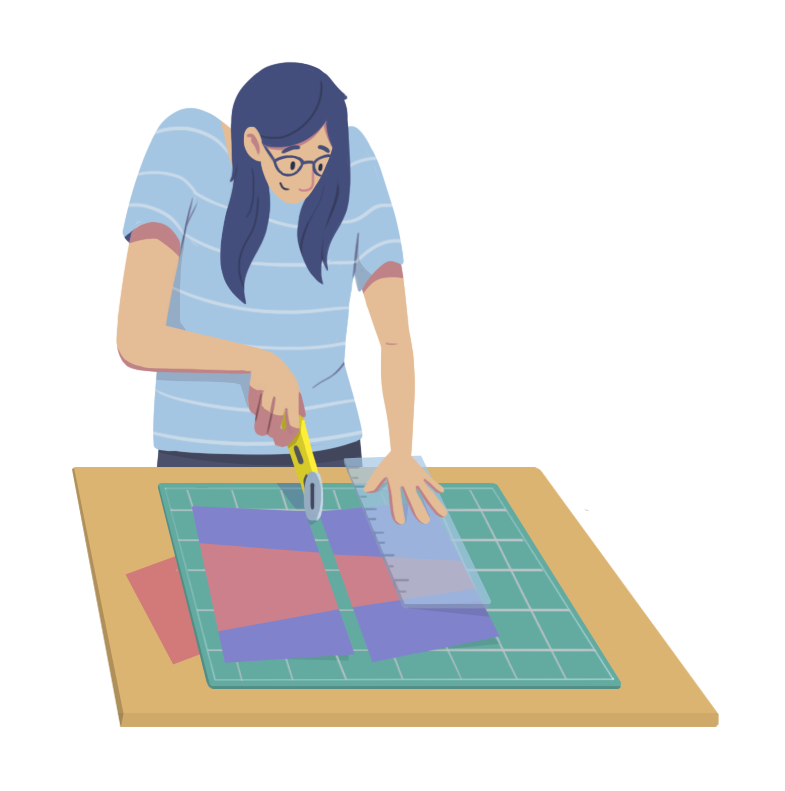
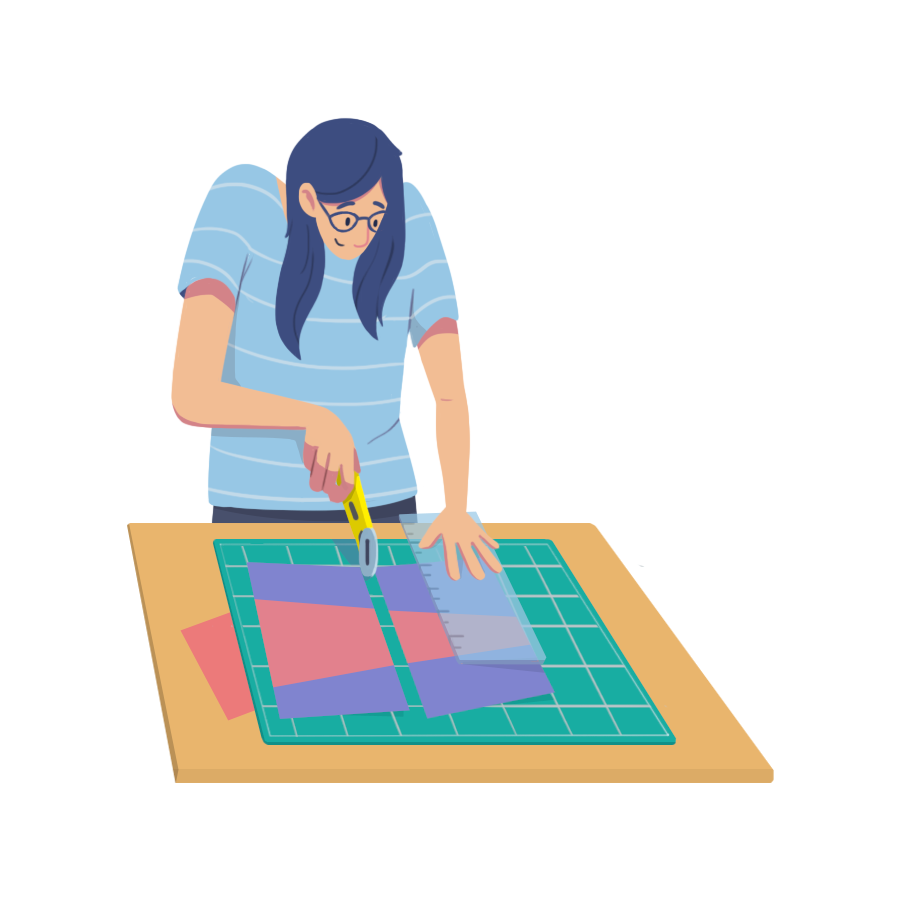
🎨 Changes to layout, added animations.

Changed region(s): [[0.0917, 0.0607, 0.9172, 0.9406]]

diff --git a/_layouts/default.html b/_layouts/default.html
@@ -10,27 +10,29 @@
   <link rel="stylesheet" href="./css/main.css">
   <link rel="stylesheet" href="./assets/css/style.css">
   <title>{{ page.title }}</title>
-
-<link href="https://fonts.googleapis.com/css?family=Arvo" rel="stylesheet">
-
+  <link href="https://fonts.googleapis.com/css?family=Arvo|Bitter|Comfortaa|Quattrocento" rel="stylesheet">
+  <link rel="stylesheet" href="https://unpkg.com/aos@next/dist/aos.css" />
 </head>
 <body id="page-top">
-    <div class="container">
+    
     {% include navigation.html %}
     {% include hero.html %}
+    <div class="container">
     {% for section in site.sections %}
-      <div id="{{ section.html-id }}" class="row featurette">
+      <section id="{{ section.html-id }}" class="row featurette section">
         <div class="col-md-7 order-md-{{ section.text-order }} mt-5">
           <h2 class="featurette-heading"><span class="text-muted">{{ section.name }}</span></h2>
           <p class="lead">{{ section.content }}</p>
         </div>
         <div class="col-md-5 order-md-{{ section.image-order }} ">
-          <img class="featurette-image img-fluid mx-auto" src="./assets/images/{{ section.image }}.png" />
+          <img class="featurette-image img-fluid mx-auto {{ section.image }}" src="./assets/images/{{ section.image }}.png"  data-aos="fade-{{ section.image-fade }}" />
         </div>
-      </div>
+      </section>
     {% endfor %}
+        <hr class="featurette-divider">
+        {% include footer.html %}
     </div>
-    {% include footer.html %}
+    
 {% include imports.html %}
 </body>
 </html>

diff --git a/_includes/navigation.html b/_includes/navigation.html
@@ -1,24 +1,25 @@
-  <nav class="navbar fixed-top navbar-light bg-un-cuarto">
-    <a class="navbar-brand" href="#">
-        <img src="./assets/images/logo.svg" style="width:50px"/>
+  <nav class="container navbar fixed-top navbar-light bg-un-cuarto">
+    <a class="navbar-brand inline" href="#">
+        <img class="d-none d-md-inline" src="./assets/images/logo.svg" style="width:50px"/>
+        <span>Un cuarto de costura</span>
     </a>
     <div class="navbar-nav-scroll">
        <ul class="navbar-nav bd-navbar-nav flex-row">
-         <li class="nav-item p-1">
+         <li class="nav-item pr-1">
            <a class="nav-link scroll-to" href="#us">Nosotros</a>
          </li>
-         <li class="nav-item p-1">
+         <li class="nav-item pl-1 pr-1">
            <a class="nav-link scroll-to" href="#classes">Clases</a>
          </li>
-         <li class="nav-item p-1">
+         <li class="nav-item pl-1 pr-1">
            <a class="nav-link scroll-to" href="#contact">Contacto</a>
          </li>
 
-         <li class="nav-item p-1">
+         <li class="nav-item pl-1 pr-1">
            <a class="nav-link" href="https://www.facebook.com/uncuartodecostura/"><i class="fab fa-facebook-f"></i></a>
          </li>
 
-        <li class="nav-item p-1">
+        <li class="nav-item pl-1">
            <a class="nav-link" href="https://www.instagram.com/uncuartodecostura"><i class="fab fa-instagram"></i></a>
          </li>
 

diff --git a/assets/css/style.css b/assets/css/style.css
@@ -1,6 +1,6 @@
 body {
   padding-top: 3.5rem;
-  font-family: 'Comfortaa', cursive;
+  font-family: 'Quattrocento', serif;
 }
 
 .fade-in {
@@ -16,38 +16,51 @@ body {
 }
 
 .un-cuarto {
+/**
   background: url('../images/un-cuarto.png');
   background-size: auto 100%;
   background-repeat: no-repeat;
   background-position: center; 
   min-height: calc(100vh - 3.5rem);
+**/
+
+  background-color: rgba(255, 255, 255, 1);
 }
+
+.un-cuarto div {
+  width: 300px;
+  right: 4rem;
+  top: 7rem;
+}
+
 .emji {
   width: 50px;
 }
 
 .bg-un-cuarto {
-  background-color: #ffffff;
+  background-color: rgba(255, 255, 255, 0);
 }
 
-  .first {
-    order: 1;
-  }
-  .second {
-    order: 2;
-  }
+.navbar-brand span {
+  font-size: 1.75rem;
+}
 
-  .third {
-    order: 3;
-  }
+@media (max-width: 576px) {
+    .navbar-brand span {
+        font-size: 0.90rem;
+    }
 
-// Small devices (landscape phones, 576px and up)
-@media (min-width: 576px) {
-
+    .nav-link {
+        font-size: 0.90rem;
+    }   
 }
 
 // Medium devices (tablets, 768px and up)
-@media (min-width: 768px) {
+@media (max-width: 768px) {
+    .un-cuarto img {
+        min-width: auto;
+        height: calc(100vh - 3.5rem);
+    }
 
 }
 

diff --git a/_includes/hero.html b/_includes/hero.html
@@ -1,10 +1,7 @@
----
-
----
-<div class="jumbotron jumbotron-fluid un-cuarto">
-    <div class="container w-25 float-right m-3 d-none d-sm-block d-sm-none d-md-block">
-        <h1><span class="text-muted">Nos encanta quiltear</span></h1>
-        <p>Somos una comunidad de quilters. Impartimos clases de quilting y patchwork para todos los niveles.  
-</p>
+<div class="jumbotron jumbotron-fluid un-cuarto position-relative">
+    <img src="./assets/images/un-cuarto.png" class="img-fluid"/>
+    <div class="container w-25 float-right m-3 d-none d-sm-block d-sm-none d-md-block position-absolute">
+        <h1><span class="text-muted display-4">Nos encanta <em>quiltear</em></h1>
+        <p>Somos una comunidad de quilters. Impartimos clases de quilting y patchwork para todos los niveles.  </p>
     </div>  
 </div>

diff --git a/_includes/imports.html b/_includes/imports.html
@@ -7,4 +7,6 @@
 
   <script src="https://cdnjs.cloudflare.com/ajax/libs/jquery-easing/1.4.1/jquery.easing.js" integrity="sha256-tw5/wId1F+4LyUF2ZJnpRoHNXJ66jrK3IGhfq4LhLjY=" crossorigin="anonymous"></script>
 
+  <script src="https://unpkg.com/aos@next/dist/aos.js"></script>
+
   <script src="./assets/js/main.js"></script>

diff --git a/_includes/footer.html b/_includes/footer.html
@@ -1,3 +1,4 @@
   <footer>
+    <p class="float-left pr-5">© 2019 Un cuarto de costura</p>
     <p class="float-right pr-5"><a class="scroll-to-top" href="#page-top">Regresar</a><img class="emji" src="./assets/images/emji.png"></p>
   </footer>

diff --git a/assets/js/main.js b/assets/js/main.js
@@ -1,4 +1,9 @@
 $(function () {
+  AOS.init({
+    duration: 1200,
+    delay: 25,
+    easing: 'ease-in-out-back'
+  });
   var lastScrollTop = 0;
   var $navbar = $('.navbar');
   $(window).scroll(function(event){

diff --git a/_sections/3-contact.md b/_sections/3-contact.md
@@ -2,8 +2,8 @@
 html-id: contact
 text-order: 1
 image-order: 2
-image: ironing
+image: cutting
 name: Contacto
-
+image-fade: left
 ---
 Lorem ipsum dolor sit amet, consectetur adipiscing elit. Aliquam quis leo tellus. Vestibulum lacus mauris, sagittis vel dapibus eu, maximus ut nisi. Pellentesque luctus sem ut turpis sagittis, id egestas purus pellentesque. Vivamus vitae commodo metus, vel egestas erat. Integer id diam id augue euismod interdum. Vestibulum ultrices metus ligula. Aliquam eget dignissim lectus.

diff --git a/_sections/1-classes.md b/_sections/1-classes.md
@@ -4,7 +4,7 @@ text-order: 1
 image-order: 2
 image: machine
 name: Clases
-
+image-fade: left
 ---
 Nuestras clases ofrecen el entorno adecuado para que aprendas diversas y novedosas técnicas de costura, _patchwork_ y _quilting_. Con nuestra variada oferta de clases, siempre tendrás algo nuevo que aprender.
 

diff --git a/_sections/2-us.md b/_sections/2-us.md
@@ -4,7 +4,7 @@ text-order: 2
 image-order: 1
 image: sewing
 name: Nosotros
-
+image-fade: right
 ---
 La misión de _un cuarto de costura_ es ampliar la oferta de espacios en la Ciudad de México dedicados a fomentar la expresión creativa y el intercambio.
 
